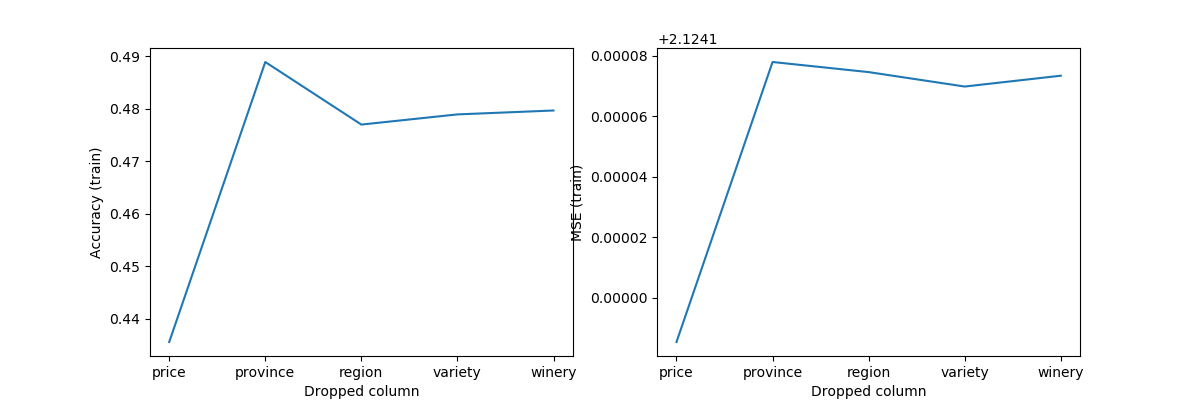
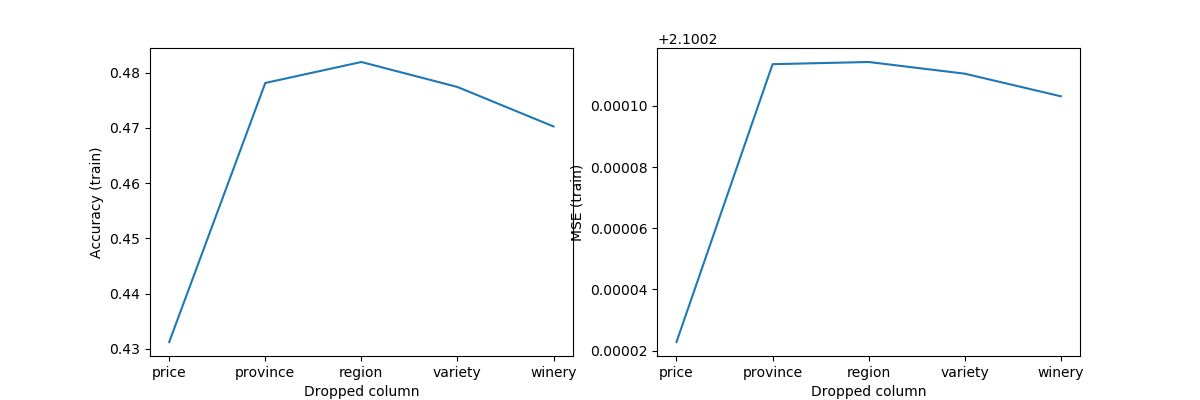
Change the training dataset size

diff --git a/assignment1/NN.py b/assignment1/NN.py
@@ -21,7 +21,7 @@ class NeuralNetwork(base.Experiment):
         # Loading wine data and split to training/validation/testing set
         wine_data = self._data_loader.load(norm_method='MEAN')
         train_ds_pd, val_ds_pd, test_ds_pd = util.get_dataset_partitions_pd(wine_data,
-            train_split=0.6, val_split=0.2, test_split=0.2)
+            train_split=0.8, val_split=0.1, test_split=0.1)
         self.log("Training size = {}", len(train_ds_pd))
         self.log("Validation size = {}", len(val_ds_pd))
         self.log("Testing size = {}", len(test_ds_pd))
@@ -60,7 +60,7 @@ class NeuralNetwork(base.Experiment):
         max_accuracy = 0.0
         metrics = []
         for layer in num_layers:
-            self.log("Start training with layer = {layer}...")
+            self.log(f"Start training with layer = {layer}...")
             # Train a SVM
             model = MLPClassifier(
                 solver='adam',

diff --git a/assignment1/main.py b/assignment1/main.py
@@ -34,8 +34,8 @@ if __name__ == "__main__":
     # print(wine_data.describe())
 
     # Run Decision Tree experiment
-    # dt_exp = DT.DecisionTree(loader, verbose=VERBOSE)
-    # dt_exp.run()
+    dt_exp = DT.DecisionTree(loader, verbose=VERBOSE)
+    dt_exp.run()
 
     # Run Boosting Decision Tree experiment
     # bdt_exp = Boosting.BoostedDecisionTree(loader, verbose=VERBOSE)
@@ -50,5 +50,5 @@ if __name__ == "__main__":
     # nn_exp.run()
 
     # Run SVM experiment
-    svm_exp = SVM.SupportVectorClassifier(loader, verbose=VERBOSE)
-    svm_exp.run()
+    # svm_exp = SVM.SupportVectorClassifier(loader, verbose=VERBOSE)
+    # svm_exp.run()

diff --git a/assignment1/Boosting.py b/assignment1/Boosting.py
@@ -22,7 +22,7 @@ class BoostedDecisionTree(base.Experiment):
         # Loading wine data and split to training/validation/testing set
         wine_data = self._data_loader.load()
         train_ds_pd, val_ds_pd, test_ds_pd = util.get_dataset_partitions_pd(wine_data,
-            train_split=0.6, val_split=0.2, test_split=0.2)
+            train_split=0.8, val_split=0.1, test_split=0.1)
         self.log("Training size = {}", len(train_ds_pd))
         self.log("Validation size = {}", len(val_ds_pd))
         self.log("Testing size = {}", len(test_ds_pd))

diff --git a/assignment1/DT.py b/assignment1/DT.py
@@ -22,7 +22,7 @@ class DecisionTree(base.Experiment):
         # Loading wine data and split to training/validation/testing set
         wine_data = self._data_loader.load()
         train_ds_pd, val_ds_pd, test_ds_pd = util.get_dataset_partitions_pd(wine_data,
-            train_split=0.6, val_split=0.2, test_split=0.2)
+            train_split=0.8, val_split=0.1, test_split=0.1)
         self.log("Training size = {}", len(train_ds_pd))
         self.log("Validation size = {}", len(val_ds_pd))
         self.log("Testing size = {}", len(test_ds_pd))
